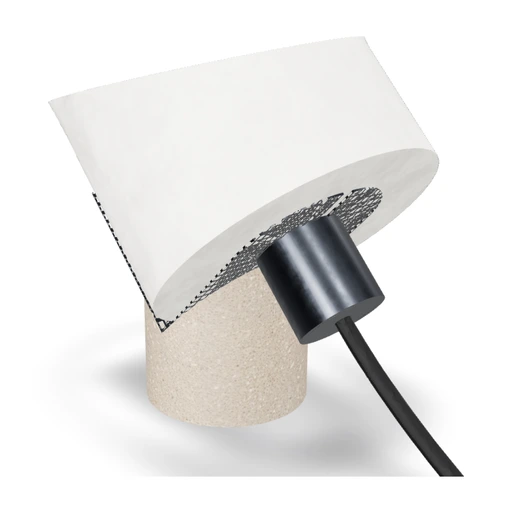
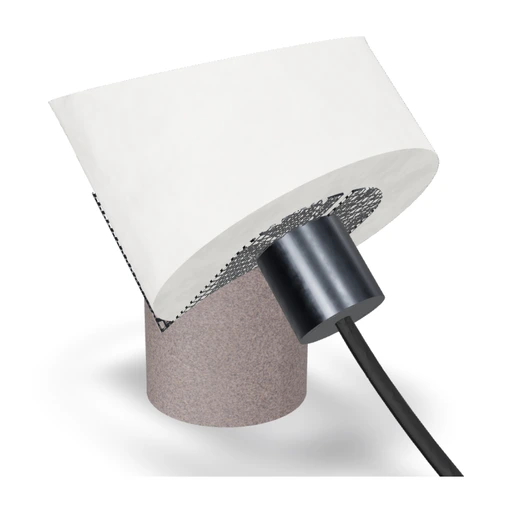
feat(config-02): remplace le pied travertin par le sable de fonderie
Nouvelle matière « Wasterial® - Sable de fonderie » (foundrySand) : image
réelle déposée telle quelle, même schéma que le travertin qu'elle remplace
(texture composite, aucun relief procédural, couleur de repli mesurée sur
l'image). Le pied de la configuration 02 (Craie) l'utilise désormais.

Changed region(s): [[0.2812, 0.5312, 0.625, 0.8438]]

diff --git a/lib/lampTextures.ts b/lib/lampTextures.ts
@@ -79,6 +79,11 @@ const PROFILES: Record<MaterialKind, Omit<MaterialProfile, "kind">> = {
   // à ajuster à l'œil : couleur/grain via la texture (composite), AUCUN
   // relief ajouté (l'image porte déjà le sien).
   rustedMetal: { roughness: 0.6, metalness: 0.5, clearcoat: 0.03, clearcoatRoughness: 0.7, grainScale: 16, grainRough: 0, speckle: 0, grainBump: 0, transmission: 0.08 },
+  // Sable de fonderie (pied, config 02) : agrégat minéral moulé et démoulé —
+  // mat, granuleux, aucun poli. Couleur/grain via la texture (composite),
+  // AUCUN relief ajouté (l'image porte déjà le sien, comme le travertin
+  // qu'elle remplace).
+  foundrySand: { roughness: 0.86, metalness: 0, clearcoat: 0.03, clearcoatRoughness: 0.82, grainScale: 16, grainRough: 0, speckle: 0, grainBump: 0, transmission: 0.08 },
   // Gaine textile du câble : tissage plat fin (chaîne/trame), mat, relief
   // discret — évoque un câble gainé de tissu haut de gamme sans excès.
   fabric: { roughness: 0.82, metalness: 0, clearcoat: 0.04, clearcoatRoughness: 0.8, grainScale: 60, grainRough: 0.4, speckle: 0.12, grainBump: 0.32, transmission: 0.08 },
@@ -108,6 +113,7 @@ function cachedImageTextures(): THREE.Texture[] {
   return [
     terraTex, shellTex, bottleTex, blackTex, blueTex,
     blueTerrazzoTex, woodTex, travertineTex, renatureTex, cortenTex, rustedMetalTex,
+    foundrySandTex,
   ].filter((t): t is THREE.Texture => t !== null);
 }
 
@@ -1173,6 +1179,41 @@ function getRustedMetalTexture(): THREE.Texture {
   return tex;
 }
 
+/* --- Texture sable de fonderie (pied, config 02), IMAGE réelle --- */
+let foundrySandTex: THREE.Texture | null = null;
+
+/**
+ * Chemin de l'image réelle « Sable de fonderie ». Utilisée TELLE QUELLE comme
+ * baseColor (aucune retouche, aucun repli procédural) : un fichier manquant
+ * ne doit jamais être remplacé silencieusement par un motif approchant —
+ * juste une erreur en console (voir plus bas).
+ */
+const FOUNDRY_SAND_URL = "/textures/sable-fonderie.png";
+
+/** Échelle du motif sur le pied (tiling triplanar) : reprend celle du
+ *  travertin qu'elle remplace, même pièce, même ordre de grandeur de grain. */
+const FOUNDRY_SAND_SCALE = 16;
+
+function getFoundrySandTexture(): THREE.Texture {
+  if (foundrySandTex) return foundrySandTex;
+  const tex = new THREE.TextureLoader().load(
+    FOUNDRY_SAND_URL,
+    undefined,
+    undefined,
+    (err) => {
+      // AUCUN repli visuel : une image manquante ne doit jamais passer pour
+      // un simple changement de rendu (voir le commentaire de FOUNDRY_SAND_URL).
+      console.error(
+        `Sable de fonderie : "${FOUNDRY_SAND_URL}" introuvable — le pied (config 02) reste sans texture.`,
+        err
+      );
+    }
+  );
+  configureImageTexture(tex);
+  foundrySandTex = tex;
+  return tex;
+}
+
 /* --- Texture Renature (intérieur de l'abat-jour, config 02), IMAGE réelle --- */
 let renatureTex: THREE.Texture | null = null;
 /** Dédoublonne les chargements concurrents (plusieurs appels avant résolution)
@@ -1438,6 +1479,9 @@ const COMPOSITE: Record<
   // Métal rouillé : couleur/motif d'oxydation via l'image, aucun relief
   // ajouté (le profil `rustedMetal` porte déjà roughness/metalness adaptés).
   rustedMetal: { tex: getRustedMetalTexture, scale: RUSTED_METAL_SCALE, bump: 0, rough: 0 },
+  // Sable de fonderie : couleur/grain via l'image, aucun relief ajouté (le
+  // profil `foundrySand` porte déjà roughness/clearcoat adaptés).
+  foundrySand: { tex: getFoundrySandTexture, scale: FOUNDRY_SAND_SCALE, bump: 0, rough: 0 },
 };
 
 /**
@@ -2041,6 +2085,8 @@ export function disposeLampTextures() {
   cortenTex = null;
   rustedMetalTex?.dispose();
   rustedMetalTex = null;
+  foundrySandTex?.dispose();
+  foundrySandTex = null;
   renatureTex?.dispose();
   renatureTex = null;
   renaturePromise = null;

diff --git a/data/product.ts b/data/product.ts
@@ -39,7 +39,8 @@ export type MaterialKind =
   | "matte"
   | "travertine"
   | "corten"
-  | "rustedMetal";
+  | "rustedMetal"
+  | "foundrySand";
 
 export interface PartFinish {
   /** Matière/finition affichée à l'utilisateur. */
@@ -168,13 +169,14 @@ export const variants: ProductVariant[] = [
     // de base change ; le kind reste « metal » (metalness / roughness / reflets
     // / texture inchangés) → acier anodisé anthracite, aspect métallique conservé.
     assembly: { label: "Acier anodisé noir", color: "#3a3e44", material: "metal" },
-    // Pied : travertin beige, depuis la photo réelle
-    // /public/textures/travertin.png.
+    // Pied : Wasterial® - Sable de fonderie, depuis la photo réelle
+    // /public/textures/sable-fonderie.png. Couleur mesurée : moyenne RVB de
+    // cette image (#655a58), pas devinée à l'œil. Remplace le travertin.
     base: {
-      label: "Wasterial® - Travertin beige",
-      color: "#b3a893",
-      material: "travertine",
-      textureImage: "/textures/swatch/travertin.webp",
+      label: "Wasterial® - Sable de fonderie",
+      color: "#655a58",
+      material: "foundrySand",
+      textureImage: "/textures/swatch/sable-fonderie.webp",
     },
     // Noir profond : le tissage textile éclaircit légèrement la teinte de base
     // sous l'éclairage ; une base plus sombre garantit un câble clairement noir.

diff --git a/tests/materials.test.ts b/tests/materials.test.ts
@@ -21,7 +21,7 @@ const EXPECTED: Record<string, Record<(typeof PARTS)[number], MaterialKind>> = {
   "porcelaine-acier-noir": {
     shade: "porcelain",
     assembly: "metal",
-    base: "travertine",
+    base: "foundrySand",
     cable: "fabric",
   },
   "brique-aluminium": {
@@ -79,6 +79,7 @@ const ALL_KINDS: MaterialKind[] = [
   "travertine",
   "corten",
   "rustedMetal",
+  "foundrySand",
 ];
 
 describe("résolution des matières", () => {
